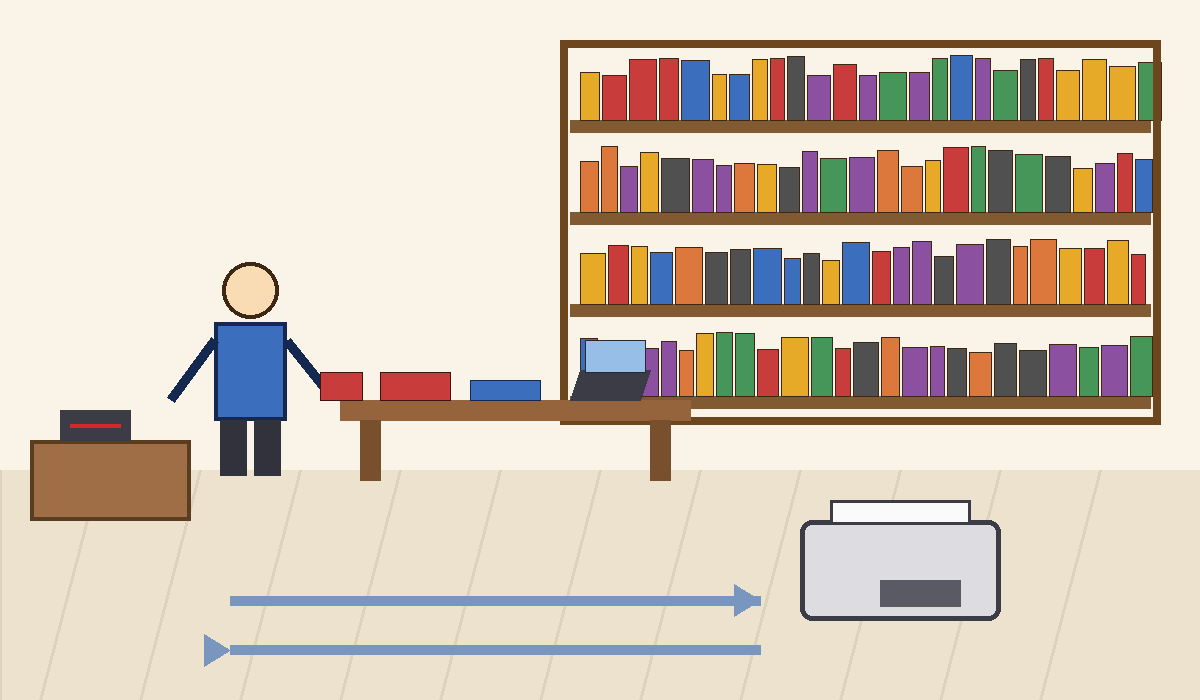
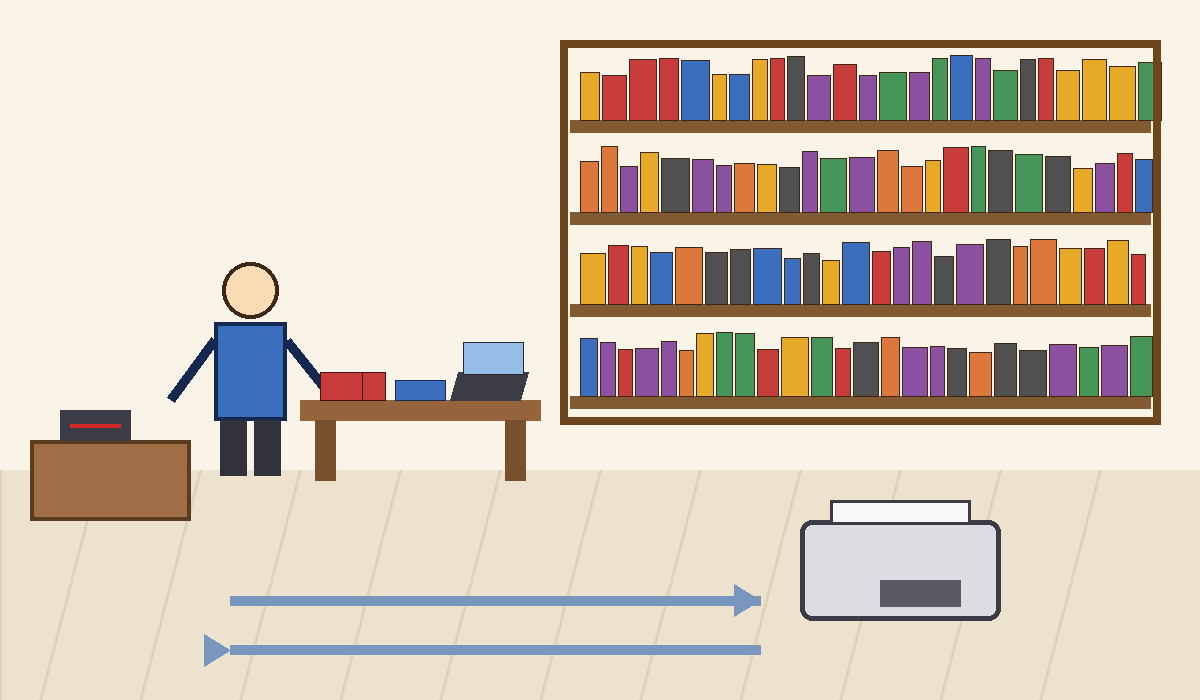
Lavagna prova: disegna e consegna (prototipo, v0.1)

Changed region(s): [[0.2467, 0.48, 0.5858, 0.69]]

diff --git a/docs/lavagna/index.html b/docs/lavagna/index.html
@@ -36,7 +36,7 @@ small{color:inherit;opacity:.8}
 (function(){
 var COMPITI=[
 {n:'Compito 1 di 4',t:'Una biblioteca è come un computer. Con la penna rossa fai un cerchio intorno a quello che fa il lavoro dell’hard disk: dove stanno TUTTI i libri, anche a biblioteca chiusa.',r:[560,40,1160,424],nome:'gli scaffali'},
-{n:'Compito 2 di 4',t:'Fai un cerchio intorno a quello che fa il lavoro della RAM: dove appoggi i libri che usi ADESSO.',r:[320,340,690,482],nome:'il tavolo'},
+{n:'Compito 2 di 4',t:'Fai un cerchio intorno a quello che fa il lavoro della RAM: dove appoggi i libri che usi ADESSO.',r:[280,335,555,485],nome:'il tavolo'},
 {n:'Compito 3 di 4',t:'Fai un cerchio intorno a quello che fa il lavoro della CPU: chi lavora, prende i libri e fa le cose.',r:[170,262,330,478],nome:'il bibliotecario'},
 {n:'Compito 4 di 4',t:'Fai un cerchio intorno a quello che fa il lavoro del bus: le strade dove passano i libri da un posto all’altro.',r:[205,575,770,672],nome:'i corridoi'}];
 var i=0,colore='#d8222d',spessore=7,gomma=false,tratti=[],cur=null,consegnato=false;
